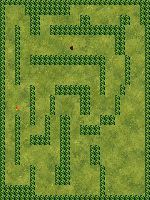
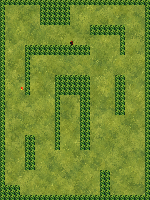
Give Meadow level 19 wide garden paths instead of cramped corridors

diff --git a/CHANGELOG.md b/CHANGELOG.md
@@ -2,6 +2,8 @@
 
 ## [Unreleased]
 
+- Meadow level 19 has wide garden paths instead of narrow corridors, tiny pockets and dead ends.
+
 - The separate CrazyGames edition starts with one Play click, uses your portal profile and cloud saves, and unlocks every chapter through play without Dew purchases.
 - It supports CrazyGames leaderboards and optional platform-approved video ads between levels, while respecting platform language and sound settings.
 
